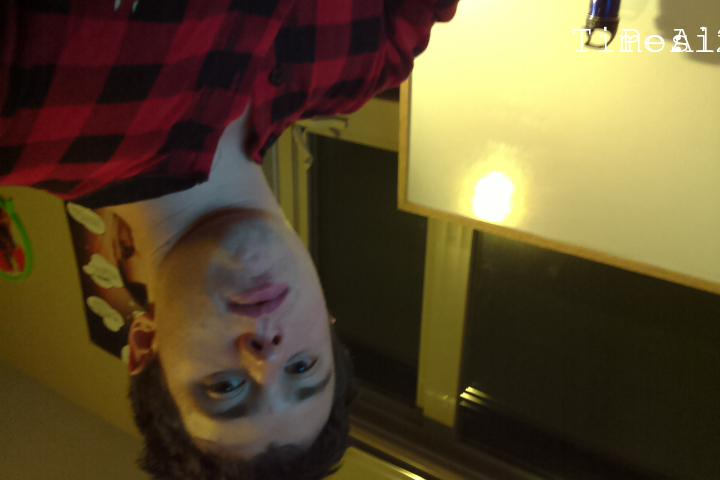
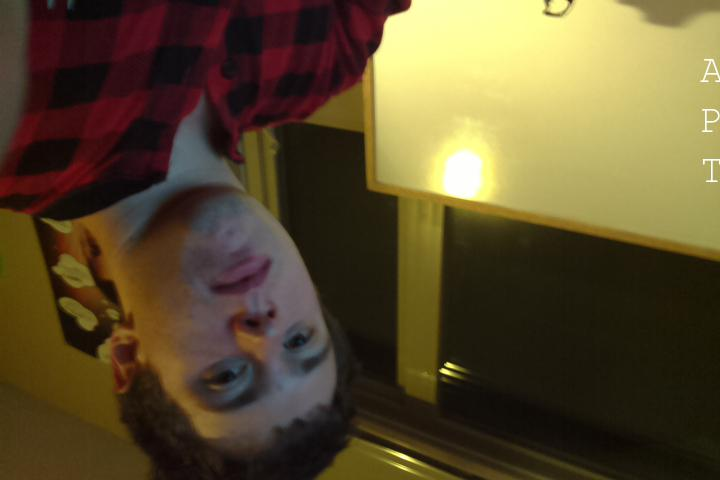
need to push image to view it

diff --git a/gps overlay.py b/gps overlay.py
@@ -45,10 +45,10 @@ draw = ImageDraw.Draw(image)
 xSize = image.size[0]
 
 font = ImageFont.truetype('/usr/share/fonts/truetype/freefont/FreeMono.ttf', 40)
-draw.text( (xSize - (50*3),20), "Time: " + str(tim), font=font )
+draw.text( (xSize - 20,(50*3)), "Time: " + str(tim), font=font )
 
-draw.text( (xSize - (50*2),20), "Position: " + str(lat) + ', ' + str(lon), font=font )
+draw.text( (xSize - 20,(50*2)), "Position: " + str(lat) + ', ' + str(lon), font=font )
 
-draw.text( (xSize - (50*1),20), "Altitude: " + str(alt), font=font )
+draw.text( (xSize - 20,(50*1)), "Altitude: " + str(alt), font=font )
 del draw
 image.save("ImageWithGPS_Data.jpg", "jpeg")
